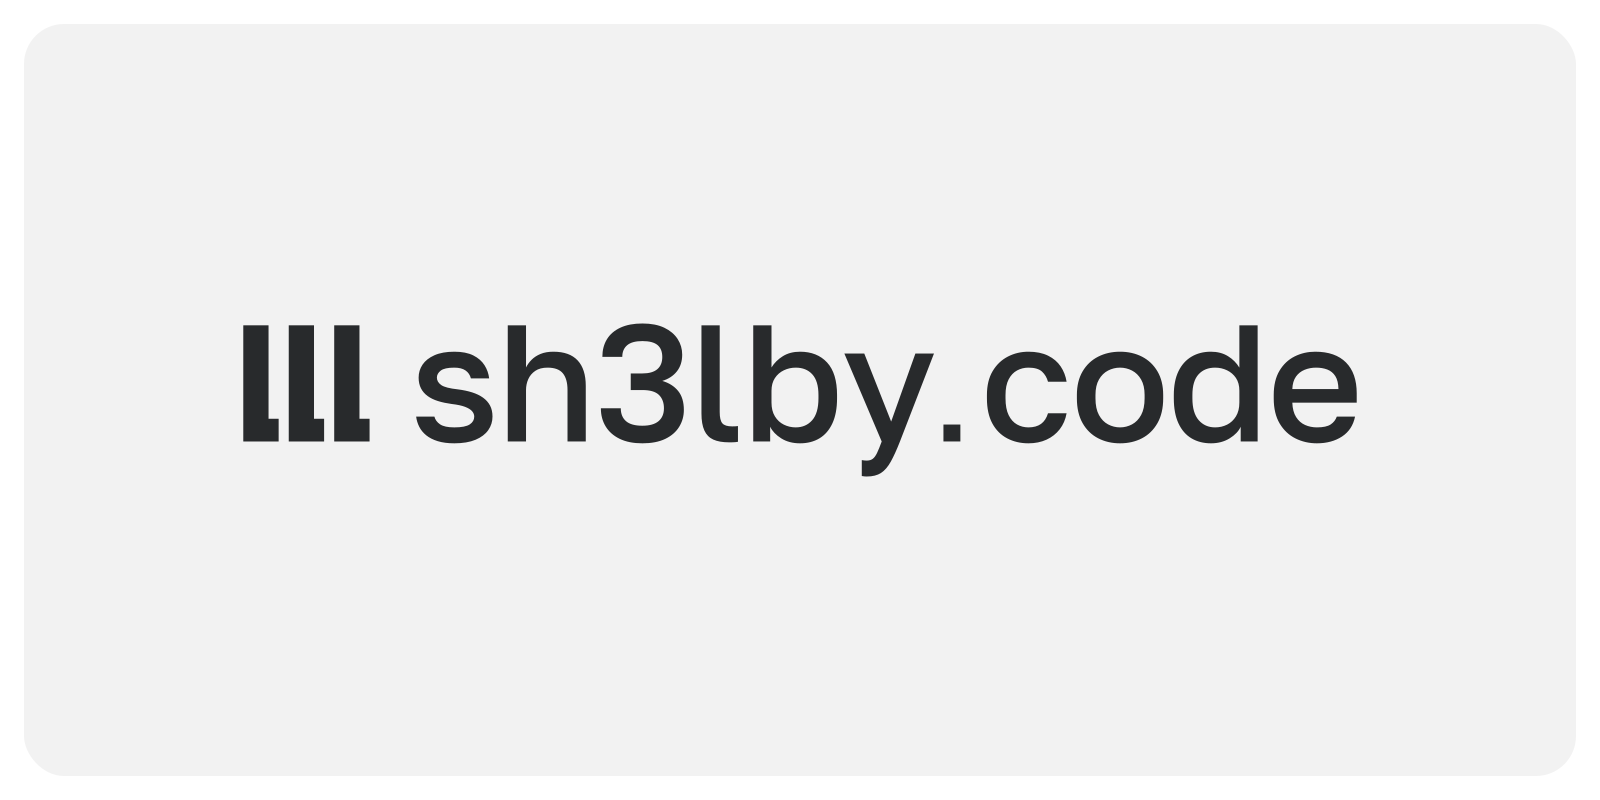
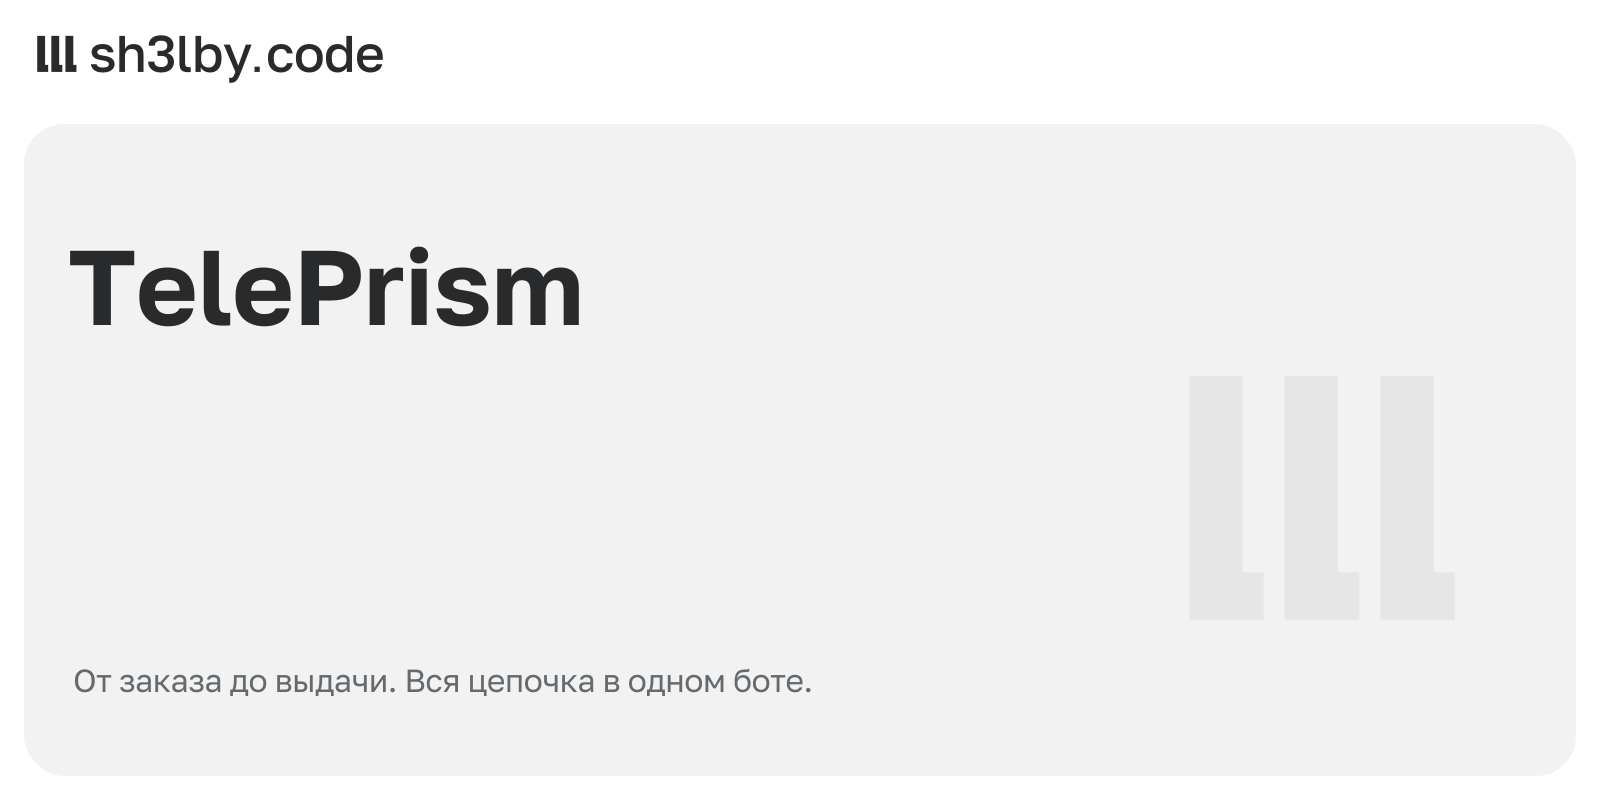
docs: use requested telegram_neutral project cards

Changed region(s): [[0.0312, 0.3125, 0.875, 0.5938], [0.0312, 0.8438, 0.5, 0.875], [0.0, 0.0312, 0.25, 0.0938]]

diff --git a/README.md b/README.md
@@ -1,7 +1,7 @@
 # TelePrism
 
 <!-- portfolio-card:start -->
-[![sh3lby.code — нейтральная обложка](docs/portfolio/card.png)](docs/portfolio/card.svg)
+[![TelePrism — От заказа до выдачи. Вся цепочка в одном боте.](docs/portfolio/card.png)](docs/portfolio/card.svg)
 <!-- portfolio-card:end -->
 
 Telegram shop bot with crypto checkout. The example catalogue sells Telegram Stars packages; the interesting part is the payment pipeline: USDT TRC20 deposits through CryptAPI, polled rather than webhooked, with partial / over / late payment handling, manager fulfilment queue with SLA timers, outbox notifications and SQLite backups.
